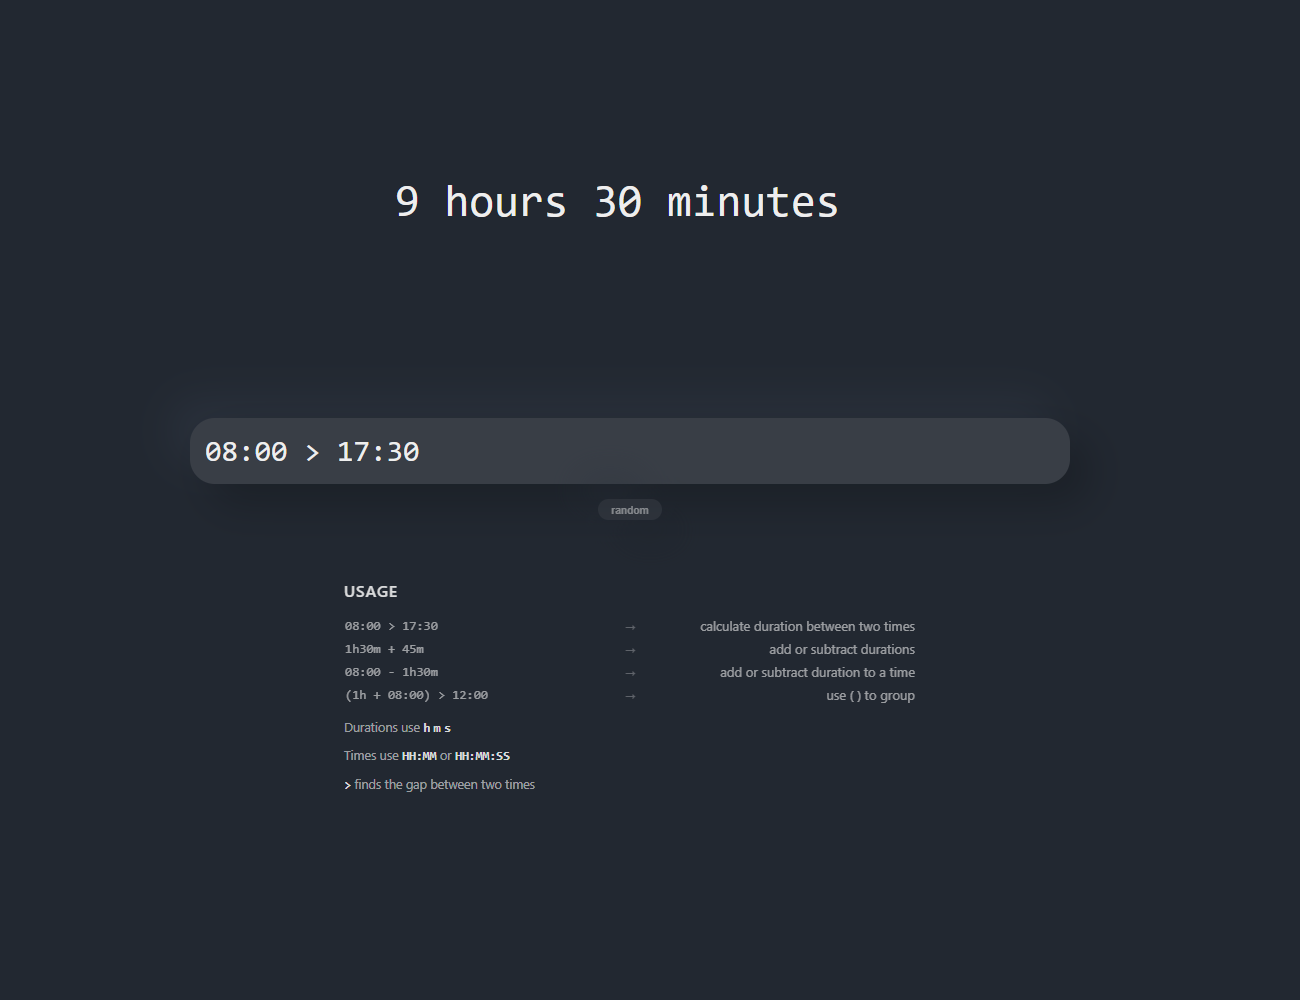
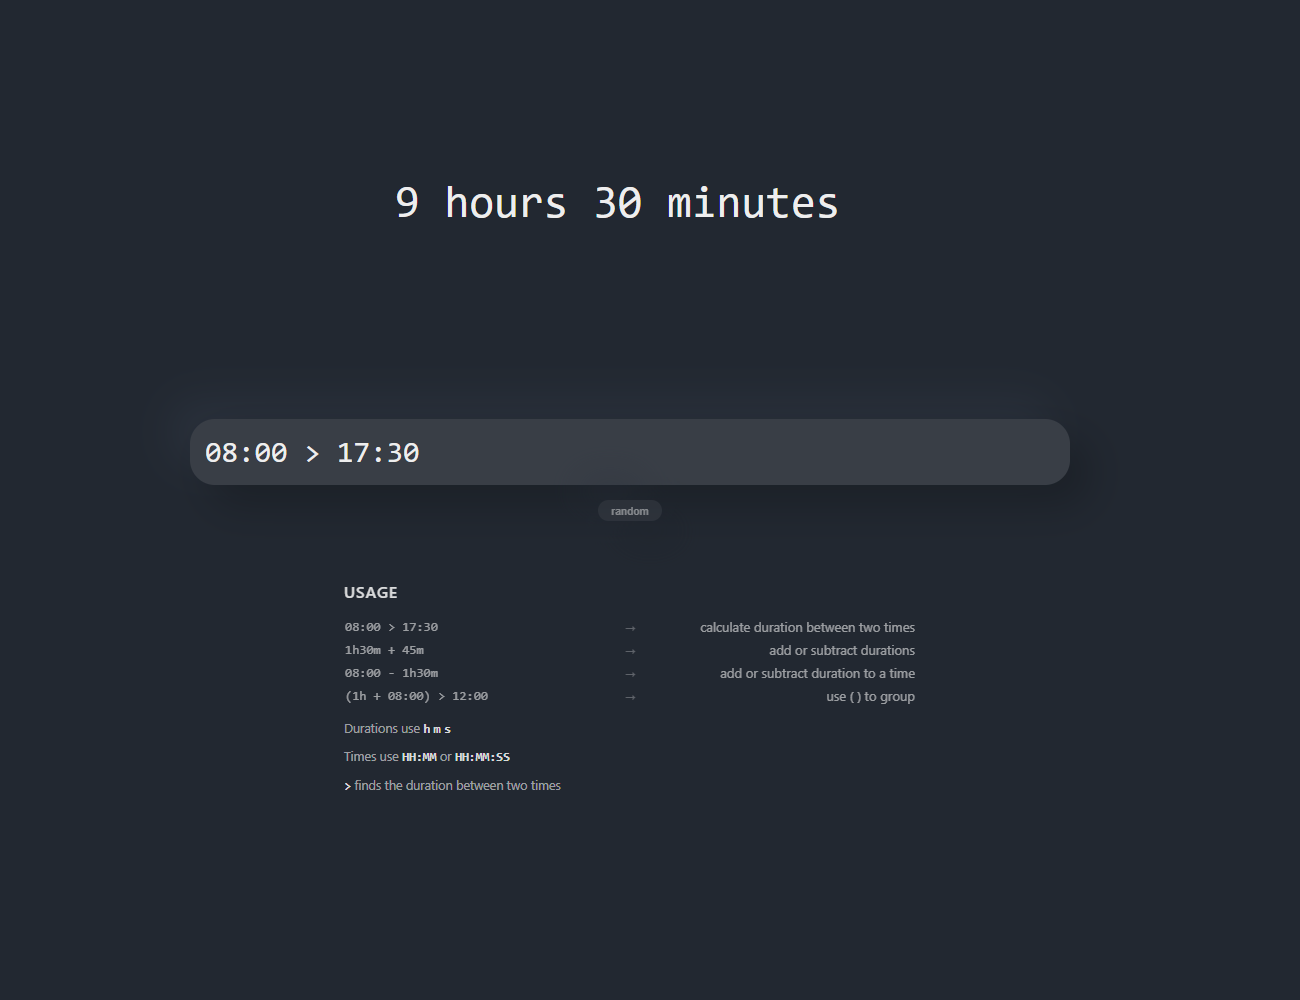
Use 'duration' instead of 'gap'

diff --git a/src/components/calculator/index.tsx b/src/components/calculator/index.tsx
@@ -46,7 +46,11 @@ const Calculator = () => {
         <>
           {parts.map((part, i) => (
             <React.Fragment key={i}>
-              {i > 0 && <span className="result-colon" aria-hidden="true">:</span>}
+              {i > 0 && (
+                <span className="result-colon" aria-hidden="true">
+                  :
+                </span>
+              )}
               {part}
             </React.Fragment>
           ))}
@@ -56,7 +60,9 @@ const Calculator = () => {
     return (
       <>
         {result}
-        <span className="result-dot" aria-hidden="true">.</span>
+        <span className="result-dot" aria-hidden="true">
+          .
+        </span>
       </>
     )
   }
@@ -72,7 +78,9 @@ const Calculator = () => {
     <div className="calculator">
       <div className="result-container monospace">
         <div className="result">
-          {result ? renderResult(result) : (
+          {result ? (
+            renderResult(result)
+          ) : (
             <span className="result-caret" aria-hidden="true">
               |
             </span>
@@ -132,7 +140,7 @@ const Calculator = () => {
               <span className="hints-code">HH:MM:SS</span>
             </p>
             <p>
-              <span className="hints-code">&gt;</span> finds the gap between two times
+              <span className="hints-code">&gt;</span> finds the duration between two times
             </p>
           </div>
         </div>